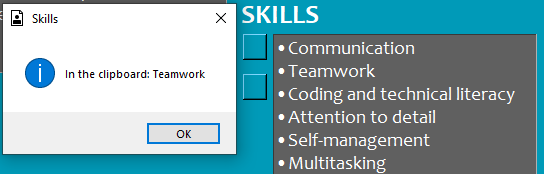
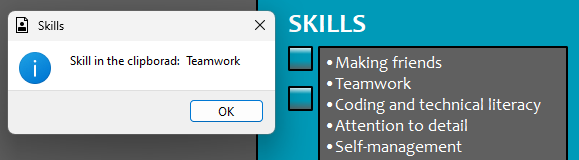
saved button added, readme update

diff --git a/pyqt/main_pyqt.py b/pyqt/main_pyqt.py
@@ -11,13 +11,12 @@ from src import (
     cv,
     db,
     MyButton,
+    MySaveButton,
+    MyScrollBar,
     MyTextLine,
     MyTextField,
-    MyScrollBar,
     MyTitle
 )
-
-
 
 
 ''' APP '''
@@ -33,7 +32,6 @@ window_main.setWindowTitle("Easy Apply")
 window_main.setWindowIcon(QIcon('pictures/icon.ico'))
 window_main.setStyleSheet(f"background-color: {cv.BACKGROUND_COLOR};")
 
-
 # QWIDGET WINDOW
 cv.window_widgets = QMainWindow()
 cv.window_widgets.setStyleSheet(f"background-color: {cv.BACKGROUND_COLOR};") 
@@ -43,16 +41,14 @@ cv.window_widgets.setStyleSheet(f"background-color: {cv.BACKGROUND_COLOR};")
 MyScrollBar(window_main)
 
 
-
 ''' WIDGETS '''
-def y_location(gap):
-    location = Y_BASE + 40 * gap
-    return location
-
-## PACING
 Y_BASE=40
 X_LEFT_SIDE_BASE = 25
 X_LEFT_SIDE_FIELD = X_LEFT_SIDE_BASE + 30
+
+def y_location(gap):
+    location = int(Y_BASE + 40 * gap)
+    return location
 
 # NAME
 MyTitle(X_LEFT_SIDE_BASE, y_location(0), 'NAME')
@@ -72,36 +68,94 @@ MyButton(X_LEFT_SIDE_BASE, y_location(3), cv.dic['mixed']['intro'])
 
 
 # EXPEREIENCE
-MyTitle(X_LEFT_SIDE_BASE, y_location(7), 'EXPERIENCE')
+n = 6
+MyTitle(X_LEFT_SIDE_BASE, y_location(n), 'EXPERIENCE')
 
-n = 8
 X_LEFT_SIDE_FIELD_2nd = X_LEFT_SIDE_FIELD + 300
 X_LEFT_SIDE_BASE_2nd = X_LEFT_SIDE_BASE + 300
 for key in db["experience"]:
-    MyTextLine(X_LEFT_SIDE_FIELD, y_location(n), 'long', 'experience', key, 'title')
-    MyButton(X_LEFT_SIDE_BASE, y_location(n), cv.dic['experience'][key]['title'])
+    MyTextLine(X_LEFT_SIDE_FIELD, y_location(n+1), 'long', 'experience', key, 'title')
+    MyButton(X_LEFT_SIDE_BASE, y_location(n+1), cv.dic['experience'][key]['title'])
     
-    MyTextLine(X_LEFT_SIDE_FIELD_2nd, y_location(n), 'date', 'experience', key, 'from')
-    MyButton(X_LEFT_SIDE_BASE_2nd, y_location(n), cv.dic['experience'][key]['from'])
+    MyTextLine(X_LEFT_SIDE_FIELD_2nd, y_location(n+1), 'date', 'experience', key, 'from')
+    MyButton(X_LEFT_SIDE_BASE_2nd, y_location(n+1), cv.dic['experience'][key]['from'])
 
-    MyTextLine(X_LEFT_SIDE_FIELD, y_location(n+1), 'long', 'experience', key, 'company')
-    MyButton(X_LEFT_SIDE_BASE, y_location(n+1), cv.dic['experience'][key]['company'])
+    MyTextLine(X_LEFT_SIDE_FIELD, y_location(n+2), 'long', 'experience', key, 'company')
+    MyButton(X_LEFT_SIDE_BASE, y_location(n+2), cv.dic['experience'][key]['company'])
     
-    MyTextLine(X_LEFT_SIDE_FIELD_2nd, y_location(n+1), 'date', 'experience', key, 'to')
-    MyButton(X_LEFT_SIDE_BASE_2nd, y_location(n+1), cv.dic['experience'][key]['to'])
+    MyTextLine(X_LEFT_SIDE_FIELD_2nd, y_location(n+2), 'date', 'experience', key, 'to')
+    MyButton(X_LEFT_SIDE_BASE_2nd, y_location(n+2), cv.dic['experience'][key]['to'])
 
-    MyTextField(X_LEFT_SIDE_FIELD, y_location(n+2), 'job_description', 'experience', key, 'description')
-    MyButton(X_LEFT_SIDE_BASE, y_location(n+2), cv.dic['experience'][key]['description'])
+    MyTextField(X_LEFT_SIDE_FIELD, y_location(n+3), 'job_description', 'experience', key, 'description')
+    MyButton(X_LEFT_SIDE_BASE, y_location(n+3), cv.dic['experience'][key]['description'])
 
     n += 9
 
-window_widgets_height = y_location(n)
+window_widgets_height = y_location(n + 1)
 
 
+# CONTACTS
+PUSH = 60
+X_RIGHT_SIDE_BASE = X_LEFT_SIDE_BASE + cv.INTRO_AND_JOBDESC_WIDTH + PUSH
+X_RIGHT_SIDE_FIELD = X_LEFT_SIDE_FIELD + cv.INTRO_AND_JOBDESC_WIDTH + PUSH
+
+MyTitle(X_RIGHT_SIDE_BASE, y_location(0), 'CONTACTS')
+
+n = 1
+for key in db["contacts"]:
+    MyTextLine(X_RIGHT_SIDE_FIELD, y_location(n), 'long', 'contacts', key)
+    MyButton(X_RIGHT_SIDE_BASE, y_location(n), cv.dic['contacts'][key])
+    n += 1
 
 
+# EDUCATION
+n = 6
+MyTitle(X_RIGHT_SIDE_BASE, y_location(n), 'EDUCATION')
 
- 
+PUSH_DATE = 150
+X_RIGHT_SIDE_BASE_2nd = X_RIGHT_SIDE_BASE + PUSH_DATE
+X_RIGHT_SIDE_FIELD_2nd = X_RIGHT_SIDE_FIELD + PUSH_DATE
+for key in db["education"]:
+    MyTextLine(X_RIGHT_SIDE_FIELD, y_location(n+1), 'long', 'education', key, 'school')
+    MyButton(X_RIGHT_SIDE_BASE, y_location(n+1), cv.dic['education'][key]['school'])
+    
+    MyTextLine(X_RIGHT_SIDE_FIELD, y_location(n+1), 'long', 'education', key, 'subject')
+    MyButton(X_RIGHT_SIDE_BASE, y_location(n+1), cv.dic['education'][key]['subject'])
+
+    MyTextLine(X_RIGHT_SIDE_FIELD, y_location(n+2), 'date', 'education', key, 'from')
+    MyButton(X_RIGHT_SIDE_BASE, y_location(n+2), cv.dic['education'][key]['from'])
+    
+    MyTextLine(X_RIGHT_SIDE_FIELD_2nd, y_location(n+2), 'date', 'education', key, 'to')
+    MyButton(X_RIGHT_SIDE_BASE_2nd, y_location(n+2), cv.dic['education'][key]['to'])
+
+    n += 2
+
+# SKILLS
+MyTitle(X_RIGHT_SIDE_BASE, y_location(n+1), 'SKILLS')
+MyTextField(X_RIGHT_SIDE_FIELD, y_location(n+2), 'bulk', 'mixed', 'skills')
+MyButton(X_RIGHT_SIDE_BASE, y_location(n+2), cv.dic['mixed']['skills'])
+b_sep = MyButton(X_RIGHT_SIDE_BASE, y_location(n+3), cv.dic['mixed']['skills'])
+b_sep.clicked.connect(lambda: b_sep.copy_skills_separately())
+
+
+# ACHIEVEMENTS
+n = n + 7.8
+MyTitle(X_RIGHT_SIDE_BASE, y_location(n), 'ACHIEVEMENTS')
+MyTextField(X_RIGHT_SIDE_FIELD, y_location(n+1), 'bulk_tall', 'mixed', 'achievements')
+MyButton(X_RIGHT_SIDE_BASE, y_location(n+1), cv.dic['mixed']['achievements'])
+
+
+# EXTRA
+n = n + 10
+MyTitle(X_RIGHT_SIDE_BASE, y_location(n), 'EXTRA')
+MyTextField(X_RIGHT_SIDE_FIELD, y_location(n+1), 'bulk_tall', 'mixed', 'extra')
+MyButton(X_RIGHT_SIDE_BASE, y_location(n+1), cv.dic['mixed']['extra'])
+
+
+# SAVE
+MySaveButton(cv.WINDOW_WIDTH - 105, 20, 60, 30)
+
+
 window_main.resize(cv.WINDOW_WIDTH, cv.WINDOW_HEIGHT)
 cv.window_widgets.resize(cv.WINDOW_WIDTH, window_widgets_height)
 
@@ -109,4 +163,3 @@ window_main.setWidget(cv.window_widgets)
 window_main.show()
 
 sys.exit(app.exec())
-

diff --git a/pyqt/src/button.py b/pyqt/src/button.py
@@ -3,19 +3,18 @@ from PyQt6.QtCore import Qt
 
 import pyperclip
 
-from .data import cv
-from .message_box import MyMessageBox
+from .data import cv, db, save_db
+from .message_box import MyMessageBox, MyWarningMessageBox
 
 
 class MyButton(QPushButton):
     def __init__(self, pos_x, pos_y, input_field):
         super().__init__()
         button_size = cv.BUTTON_AND_LINE_FIELD_HEIGHT
-        # self.input_field = input_field
+        self.input_field = input_field
         self.setParent(cv.window_widgets)
         self.setCursor(Qt.CursorShape.PointingHandCursor)
         self.setGeometry(pos_x, pos_y, button_size, button_size)
-        self.setCursor(Qt.CursorShape.PointingHandCursor)
         self.setStyleSheet(
                     "QPushButton"
                         "{"
@@ -31,9 +30,9 @@ class MyButton(QPushButton):
                     )
         # MyTextLine(QLineEdit), MyTextField(QTextEdit) have diff. copy methods
         if "MyTextLine" in str(input_field.__class__):
-            self.clicked.connect(lambda: pyperclip.copy(input_field.text()))
+            self.clicked.connect(lambda: pyperclip.copy(self.input_field.text()))
         else:
-            self.clicked.connect(lambda: pyperclip.copy(input_field.toPlainText()))
+            self.clicked.connect(lambda: pyperclip.copy(self.input_field.toPlainText()))
 
 
     def copy_skills_separately(self):
@@ -47,3 +46,59 @@ class MyButton(QPushButton):
                 skill = skill.strip('\u2022')
                 pyperclip.copy(skill)
                 MyMessageBox(skill)
+
+
+
+class MySaveButton(QPushButton):
+    def __init__(self, pos_x, pos_y, width, height):
+        super().__init__()
+        self.obj: object = None
+        self.setText("SAVE")
+        self.setParent(cv.window_widgets)
+        self.setCursor(Qt.CursorShape.PointingHandCursor)
+        self.setGeometry(pos_x, pos_y, width, height)
+        self.setStyleSheet(
+                    "QPushButton"
+                        "{"
+                        f"background: QLinearGradient(x1: 0, y1: 0, x2: 0, y2: 1, stop: 0 white, stop: 0.2 {cv.BACKGROUND_COLOR}, stop: 0.7 {cv.BACKGROUND_COLOR}, stop: 1 {cv.FIELD_BACKGROUND_COLOR} );"
+                        "border-radius: 2px;"
+                        "border: 2px solid black;"
+                        "color:white;"
+                        "font: 12pt Candara;"
+                        "font-weight: bold;"
+                        "}"
+
+                    "QPushButton::pressed"
+                        "{"
+                        f"background-color : {cv.FIELD_BACKGROUND_COLOR};"
+                        "}"
+                    )
+        self.clicked.connect(lambda: self.save())
+ 
+
+    def save(self):
+        try:
+            for key in cv.dic:
+                if key in 'mixed contacts'.split():
+                    for sub_key in cv.dic[key]:
+                        self.obj = cv.dic[key][sub_key]
+                        db[key][sub_key] = self.get_text()
+                
+                else:
+                    for sub_key in cv.dic[key]:
+                        for sub_key_snd in cv.dic[key][sub_key]:
+                            self.obj = cv.dic[key][sub_key][sub_key_snd]
+                            db[key][sub_key][sub_key_snd] = self.get_text()
+            save_db()
+        except:
+            MyWarningMessageBox()
+
+
+    def get_text(self):
+        if "MyTextLine" in str(self.obj.__class__):
+            return self.obj.text()
+        else:
+            return self.obj.toPlainText()
+
+
+    

diff --git a/pyqt/src/text_field.py b/pyqt/src/text_field.py
@@ -1,5 +1,5 @@
-from PyQt6.QtGui import QFont
 from PyQt6.QtCore import Qt
+from PyQt6.QtGui import QFont
 from PyQt6.QtWidgets import QTextEdit, QLineEdit
 
 from .data import cv, db
@@ -23,7 +23,7 @@ class MyTextLine(QLineEdit):
         field_height = cv.BUTTON_AND_LINE_FIELD_HEIGHT
         size_dic = {
             'name': [100, field_height],
-            'date': [120, field_height],
+            'date': [100, field_height],
             'long': [250, field_height],    # job title, company, school
         }
         self.setGeometry(pos_x, pos_y, size_dic[field_type][0], size_dic[field_type][1])
@@ -56,11 +56,11 @@ class MyTextField(QTextEdit):
                         "border: 2px solid black;"
                         f"color: {cv.TEXT_FIELD_FONT_COLOR};"
                         )
-        intro_and_jdesc_width = 700
         size_dic = {
-            'intro': [intro_and_jdesc_width, 120],
-            'job_description': [intro_and_jdesc_width, 250],
-            'bulk': [200, 150], # skills, achivements, extra 
+            'intro': [cv.INTRO_AND_JOBDESC_WIDTH, 105],
+            'job_description': [cv.INTRO_AND_JOBDESC_WIDTH, 250],
+            'bulk': [250, 200], # skills
+            'bulk_tall': [250, 325] 
         }
         self.setGeometry(pos_x, pos_y, size_dic[field_type][0], size_dic[field_type][1])
         self.set_text_and_place_object_to_dic()

diff --git a/pyqt/src/data.py b/pyqt/src/data.py
@@ -1,6 +1,7 @@
 from dataclasses import dataclass
 from pathlib import Path
 from json import load, dump
+from copy import deepcopy
 
 
 def get_path_json():
@@ -36,6 +37,8 @@ class Data:
     SKILLS_POP_UP_WINDOW_POS_X: int = db['settings']['skills_pop_up_window_pos_x']
     SKILLS_POP_UP_WINDOW_POS_Y: int = db['settings']['skills_pop_up_window_pos_y']
     BUTTON_AND_LINE_FIELD_HEIGHT: int = db['settings']['button_and_line_field_height']
+    INTRO_AND_JOBDESC_WIDTH: int = db['settings']['intro_and_jobdesc_width']
+
 
     ''' 
         Field objects placed in the dic. in the
@@ -46,7 +49,6 @@ class Data:
     for key in db:
         if key != "settings":
             dic[key] = {}
-            dic[key] = db[key]
-
+            dic[key] = deepcopy(db[key])
 
 cv = Data()

diff --git a/pyqt/src/message_box.py b/pyqt/src/message_box.py
@@ -18,3 +18,16 @@ class MyMessageBox(QMessageBox):
         self.move(cv.SKILLS_POP_UP_WINDOW_POS_X, cv.SKILLS_POP_UP_WINDOW_POS_Y)
         self.setText(f'Skill in the clipborad:  {message}        ')
         self.exec()
+
+
+
+class MyWarningMessageBox(QMessageBox):
+    ''' Used for the Save button '''
+    def __init__(self):
+        super().__init__()
+        self.setWindowTitle('ERROR')
+        self.setWindowIcon(QIcon('pictures/settings.png'))
+        self.setIcon(QMessageBox.Icon.Warning)
+        self.setStandardButtons(QMessageBox.StandardButton.Ok)
+        self.setText(f'Sorry, something went wrong while saving the form      ')
+        self.exec()

diff --git a/README.md b/README.md
@@ -1,7 +1,8 @@
 # Easy Apply
 - Have you ever been annoyed by the repetitive nature of the job applications?
-    - Most of the time the data extraction from your resume(if there is an option at all) do not work properly, so you need to select and copy-paste the same information over and over again every time you apply for a new role
+    - Most of the time the data extraction from your resume (if there is an option at all) do not work properly, so you need to select and copy-paste the same information over and over again every time you apply for a new role
 - `Easy Apply` let you add the information into your clipboard by just clicking on a button of the selected field
+- Versions: `PyQt6` and `Tkinter`
 
 <br>
 <div align="center">
@@ -11,33 +12,36 @@
 
 # Requirements
 ### Install packages\dependencies
+#### PyQT6
+``` pip install -r requirements_pyqt.txt ```
+#### Tkinter
 ``` pip install -r requirements.txt ```
 
-### Separately
-### Python 3 - used: 3.11
+### Python 3 - used: 3.12
 - https://www.python.org/
-
-### Pyperclip
-- https://pypi.org/project/pyperclip/
 
 ### OS
 - `Windows` (tested on 11)
 
-# Guide - Tkinter
+# Guide - Tkinter (older version)
 - The app window opens at the right, top corner of the screen
     - optimised for `27" - 2560x1440` monitor
-    - for smaller display, the `PyQt` version recommended (in rogress)
+    - for smaller display, the `PyQt` version recommended
 - The first row of the `Contacts` automatically added to the clipboard at the start of the app when the `copy_to_clipboard_page_1` set to true in `json/settings`
 - `Skills`:
     - the 1st button copies the skill list in bulk/together
-    - the 2nd button copies the skills ony by one, pop-up message displaying the current skill in clipboard, jumps to the next skill, once the pop-up message is closed
+    - the 2nd button copies the skills one by one, pop-up message displaying the current skill in clipboard, jumps to the next skill, once the pop-up message is closed
 - At the launch of the 2nd page the `Achievements` field value automatically added to the clipboard when the `copy_to_clipboard_page_2` set to true in `json/settings`
+
+# Guide - PyQt (latest version)
+- Buttons behave the same way as in the `Tkinter` version
+- Window is scrollable, the window size is not fixed
+- Once a field (QTextEdit) overloaded with text, scrollbar is displayed on the widget
 
 <br>
 <div align="center">
     <img src="pictures/screenshot_skills.png"</img> 
 </div>
 <br>
-
 
 ## Thank you all who worked on the modules used in this project!
